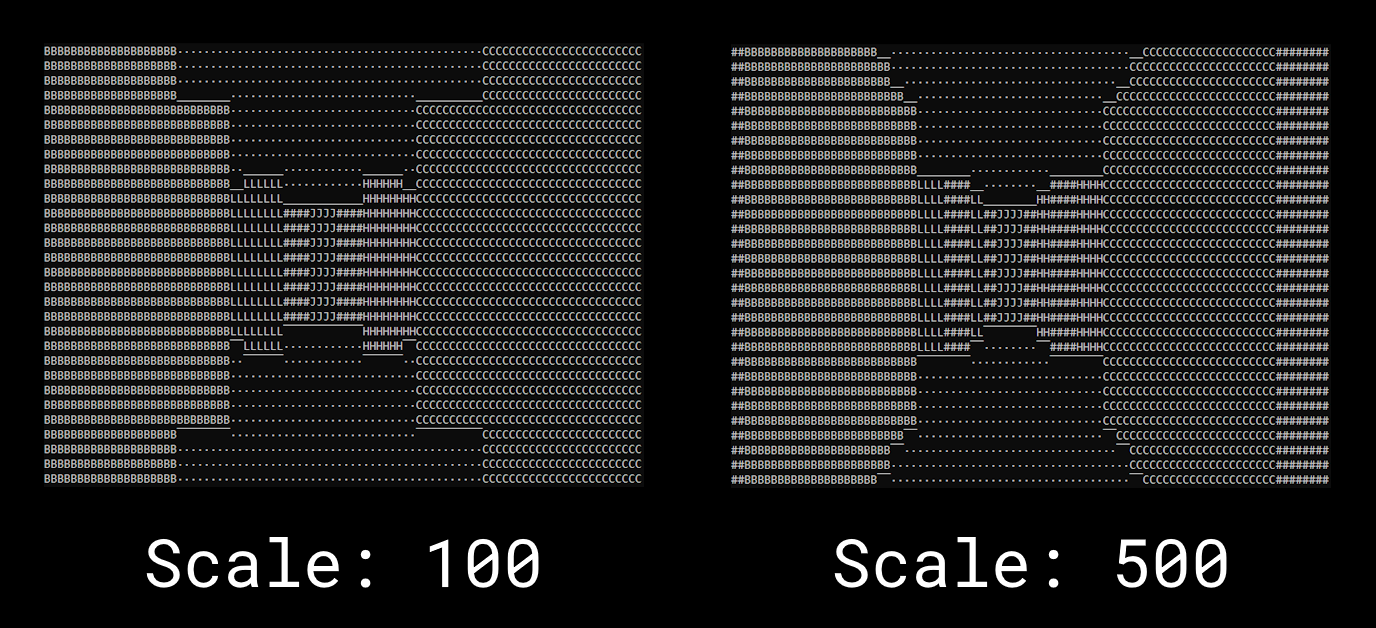
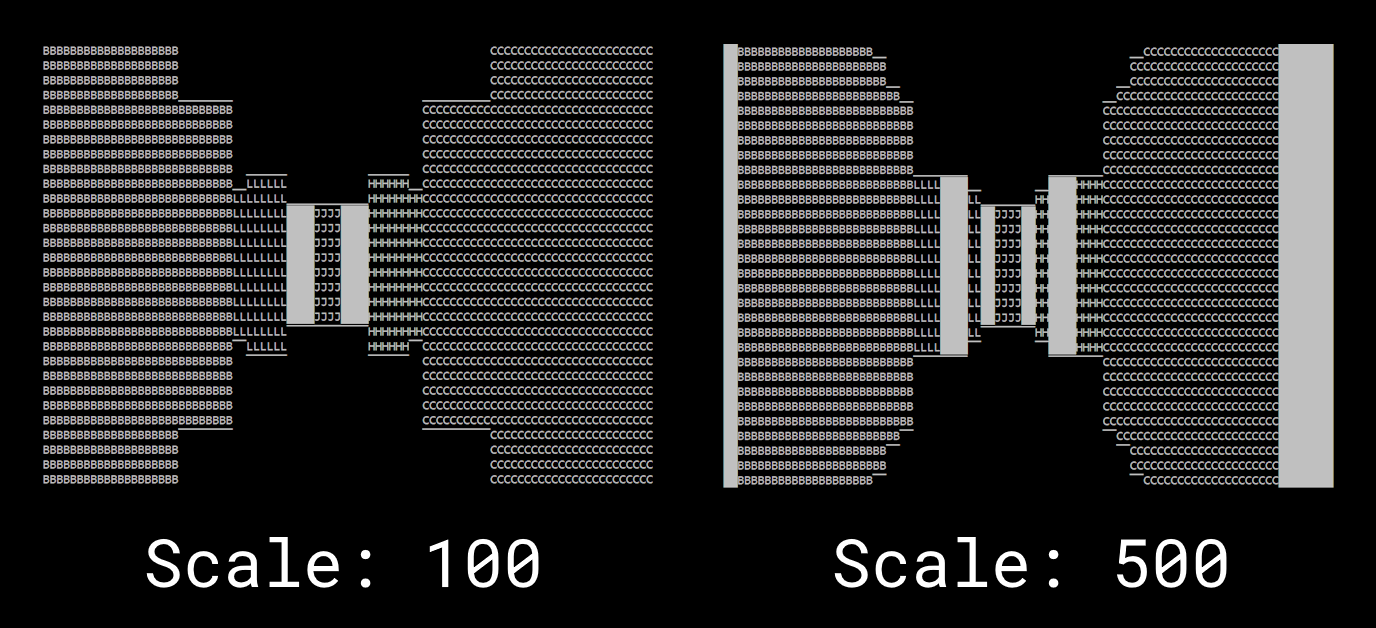
Updating draft article

Changed region(s): [[0.5, 0.0605, 0.9688, 0.7866], [0.0312, 0.0605, 0.4688, 0.7866]]

diff --git a/content/blog/batch_raycaster.md b/content/blog/batch_raycaster.md
@@ -1,0 +1,159 @@
+---
+external: false
+title: "Integer-only Raycaster (Batch)"
+description: "A raycaster I wrote in Batch doesn't use any trigonometric function or non-integers."
+tags: ["Raycaster", "Challenge", "Engine", "Algorithm", "Batch", ""]
+date: 2024-05-22
+draft: true
+---
+
+# Table of Contents
+1. [Intro](#intro)\
+1.1 &nbsp;[Demo / Source Code](#demo)\
+1.2 &nbsp;[What is Raycasting?](#)
+2. [The Map](#)\
+2.1 &nbsp;[Scaling](#)
+3. [The Screen](#)\
+3.1 &nbsp;[Vertical Columns](#)
+4. [Empirical Proof for Line Count Estimation](#)
+
+# 1. Intro
+&nbsp;&nbsp;&nbsp;&nbsp;&nbsp;This article explains the solutions I used in the creation of my Batch raycaster.
+This is a notable challenge as Batch is very low level language and, quite frankly, an awful language. However, it can be incredibly fun
+to code in, and always yields interesting solutions to what are otherwise trivial problems in most languages.
+
+## 1.1 Demo / Source Code
+[Source code on GitHub](https://github.com/nTh0rn/batch-raycaster)
+{% table id="demo"%}
+ * ![](/images/batch_raycaster/batch_raycaster_walking.gif) {% align="center" %}
+{% /table %}
+
+
+
+## 1.2 What is Raycasting?
+&nbsp;&nbsp;&nbsp;&nbsp;&nbsp;The basic jist of raycasting is that every single vertical column of the user's screen is assigned to a ray on a 2D top-down representation of the player's map. How far that ray can imminate from the player before hitting a wall corresponds to the length of a line drawn in its vertical column. This means walls that are far away yield small vertical lines, and walls that are close yield large vertical lines.
+
+&nbsp;&nbsp;&nbsp;&nbsp;&nbsp;So raycasting relies on one basic principle: ***Things look smaller when they are farther away***.
+
+&nbsp;&nbsp;&nbsp;&nbsp;&nbsp;Please check out [Lode Vandevenne's fantastic article on raycasting](https://lodev.org/cgtutor/raycasting.html) for a full explanation of floating point raycasting. My article focusses on explaining the integer-only solutions to raycasting, and will not recover the basics beyond unique solutions.
+
+
+## The Map
+&nbsp;&nbsp;&nbsp;&nbsp;&nbsp;The first thing I had to do was figure out some way to store the map. This was accomplished using dynamic variable naming, which is the Batch equivilent to arrays.
+First the map is stored in a text file as shown.
+{% table %}
+ * ![](/images/batch_raycaster/room.txt.png) {% align="center" %}
+{% /table %}
+Note the hightlighted **P**. This denotes where the player is in the map. You may also note the dots used instead of blank spaces. Batch is basically incapable of comprehending blank spaces in strings, so some filler character must be used instead. This map is 10x10, but the raycaster can support larger maps.
+
+&nbsp;&nbsp;&nbsp;&nbsp;&nbsp;The map is then read line by line, and character by character. Each character is then assigned to its appropriate coordinate, saving the player's coordinates seperately.
+```batch
+set mapx%x%y%y%=!char!
+if "!char!"=="P" (
+	set pcord=x%x%y%y%
+	set /a px=!x!
+	set /a py=!y!
+)
+```
+&nbsp;&nbsp;&nbsp;&nbsp;&nbsp;One issue though, how do we navigate within cells on the map if we cannot use floating point numbers? The answer is to scale the map up. The higher the scale, the more accurate the raycasting - but also the longer it takes to calculate!
+
+## Scaling
+{% table %}
+ * ![](/images/batch_raycaster/raycaster_scale.png) {% align="center" %}
+{% /table %}
+
+&nbsp;&nbsp;&nbsp;&nbsp;&nbsp;Scaling is very simple. The coordinate system used is not actually 10x10 from the map. Instead, every x and y coordinate is scaled by some number, 500 for example, meaning your grid is actually 5000x5000, with a different cell every 500 units. Using 500 is a bit overboard, as anywhere between 150-300 can provide suffecient visual fidelity while also rendering faster.
+
+&nbsp;&nbsp;&nbsp;&nbsp;&nbsp;Whether or not you'll collided with a cell is done by taking the current scaled coordinates and dividing them by the scale amount. The result will be the nearest rounded down integer, which can then be checked using the dynamic map variables for either a wall or blank space.
+
+&nbsp;&nbsp;&nbsp;&nbsp;&nbsp;What happens if a wall is detected is talked about in [Calculating Distance](#calculating-distance).
+
+## Vertical columns
+&nbsp;&nbsp;&nbsp;&nbsp;&nbsp;Traditionally, you would generate the vertical columns on the fly in a raycaster. I found this to be a bit too much out of the scope of this project, especially since I wanted special characters are the top and bottom of walls. So instead, I use a set of variables that represent all possible vertical columns, stored horizontally as a string.
+
+```batch
+set d33=A···············‾··············B
+set d32=A··············_‾··············B
+set d31=A·············_##‾·············B
+set d30=A·············—##—·············B
+set d29=A············_####‾············B
+set d28=A············—####—············B
+set d27=A···········_######‾···········B
+set d26=A···········—######—···········B
+set d25=A··········_########‾··········B
+set d24=A··········—########—··········B
+set d23=A·········_##########‾·········B
+set d22=A·········—##########—·········B
+set d21=A········_############‾········B
+set d20=A········—############—········B
+set d19=A·······_##############‾·······B
+set d18=A·······—##############—·······B
+set d17=A······_################‾······B
+set d16=A······—################—······B
+set d15=A·····_##################‾·····B
+set d14=A·····—##################—·····B
+set d13=A····_####################‾····B
+set d12=A····—####################—····B
+set d11=A···_######################‾···B
+set d10=A···—######################—···B
+ set d9=A··_########################‾··B
+ set d8=A··—########################—··B
+ set d7=A·_##########################‾·B
+ set d6=A·—##########################—·B
+ set d5=A_############################‾B
+ set d4=A—############################—B
+ set d3=A##############################B
+ set d2=A##############################B
+ set d1=A##############################B
+```
+The `A` and `B` at the start and end of the line assist with whitespace later on in the code (as mentioned earlier, Batch is horrendous when dealing with whitespace.)
+
+&nbsp;&nbsp;&nbsp;&nbsp;&nbsp;
+
+
+{% table %}
+ * ![](/images/batch_raycaster/raycast_visualized.gif) {% align="center" %}
+{% /table %}
+
+&nbsp;&nbsp;&nbsp;&nbsp;&nbsp;Upon opening, whoever's move it is is determined by who actually moves first.
+This was done to avoid additional fen-parsing.
+
+&nbsp;&nbsp;&nbsp;&nbsp;&nbsp;Still a pretty cool demo though in my opinion! I might someday write up a full article about the challenges of this project and how I approached legal-move calculation. So for now, I encourage you to look at the code if you're curious!
+
+# Evaluation
+&nbsp;&nbsp;&nbsp;&nbsp;&nbsp;The evaluation only works by using piece-tables, obtained from [here](https://www.chessprogramming.org/Simplified_Evaluation_Function) (The Chess Programming Wiki is a goldmine, I highly recommend it.). Again, I was going to implement an actual chess-engine, and then I wised up.
+![](/images/chessbit/eval.png)
+## A statement on switch-statements and the goto function.
+&nbsp;&nbsp;&nbsp;&nbsp;&nbsp;A lot of what I wanted to do when writing this program was use switch-statements and goto loops. Unfortunately, Batch does not have switch statements. What it does have, however, is a dynamic text system that allows you to imbed variables into variable names.
+
+This means the following code:
+```
+switch(input) {
+    case x:
+        ...
+        break;
+    case y:
+        ...
+        break;
+    case z:
+        ...
+        break;
+}
+```
+In Batch, is written as this:
+```
+goto switch_%input%
+
+:switch_x
+    ...
+    goto :eof
+:switch_y
+    ...
+    goto :eof
+:switch_z
+    ...
+    goto :eof
+```
+The bad news, however, is that when using the goto function in Batch, it doesn't just jump straight to the line that has that function. Instead, Batch immediately jumps to the start of the file and reads downward until it finds the function. That means loops or switch statements kept near the top of your code will run faster than if they were at the bottom of your code.
+
+&nbsp;&nbsp;&nbsp;&nbsp;&nbsp;I hope it is apparent now way I moved away from writing this in Batch. Be sure to check out the code for this over on [GitHub](https://github.com/nTh0rn/chessbit).
